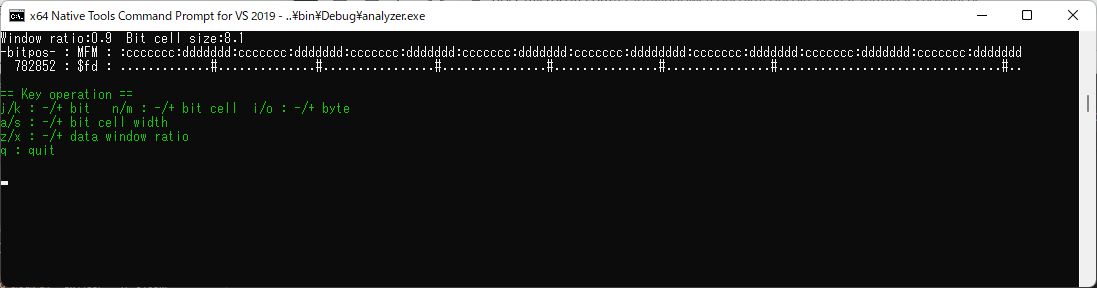
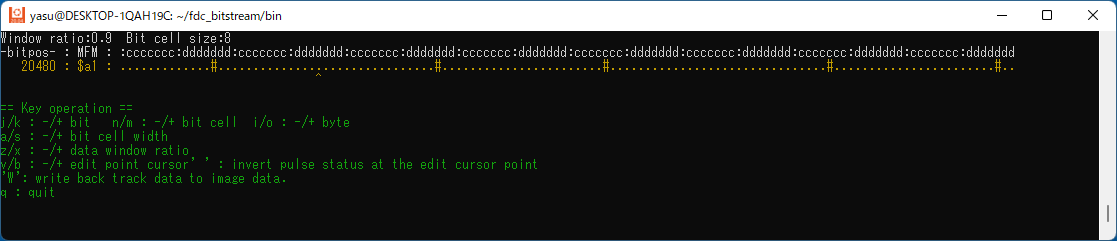
update documents

Changed region(s): [[0.0, 0.0, 1.0, 1.0], [0.2789, 0.3485, 0.3099, 0.4066], [0.0, 0.7842, 0.062, 0.8133]]

diff --git a/disk_analyzer/README.md b/disk_analyzer/README.md
@@ -297,14 +297,16 @@ CMD(7) > q
 
 ### Interactive Pulse Viewer ('vp' command)  
 
-You can check the fluctuation of pulse pitch in a track. FDD/FDC is expecting stable pulse pitches to decode MFM data. However, some floppy disk mediums may have pulse pitch fluctuation, making the disk image data reconstruction from the captured data difficult.    
-This feature visualizes the pulse pitch fluctuation through a track so that you can visually check the stability of the pulses in the medium.   
+You can view and check the bit stream data at an arbitrary point.  The viewer has a simple MFM decoding feature so that you can check the decoded value in real-time.  
+You can move the display point by sampling unit, bit cell unit, or byte unit by key operation.  
+This viewer also has a simple pulse edit feature. You can add or remove the pulses at any point.  
 ![pulse_viewer](../resources/pulse_viewer.png)
 
 
 ### Pulse pitch fluctuation viewer ('vpf' command)  
 
-You can check the fluctuation of pulse pitch in a track. FDD/FDC is expecting stable pulse pitch to decode MFM data but some floppy disk medium may have pulse pitch fluctuation and it makes image reconstruction from the captured data difficult.    
+You can check the fluctuation of pulse pitch in a track. FDD/FDC is expecting stable pulse pitches to decode MFM data. However, some floppy disk mediums may have pulse pitch fluctuation, making the disk image data reconstruction from the captured data difficult.    
+This feature visualizes the pulse pitch fluctuation through a track so that you can visually check the stability of the pulses in the medium.   
 
 * Bad case - pulse pitch is fluctuating  
 ![fluctuation](../resources/pulse%20fluctuation.png)
